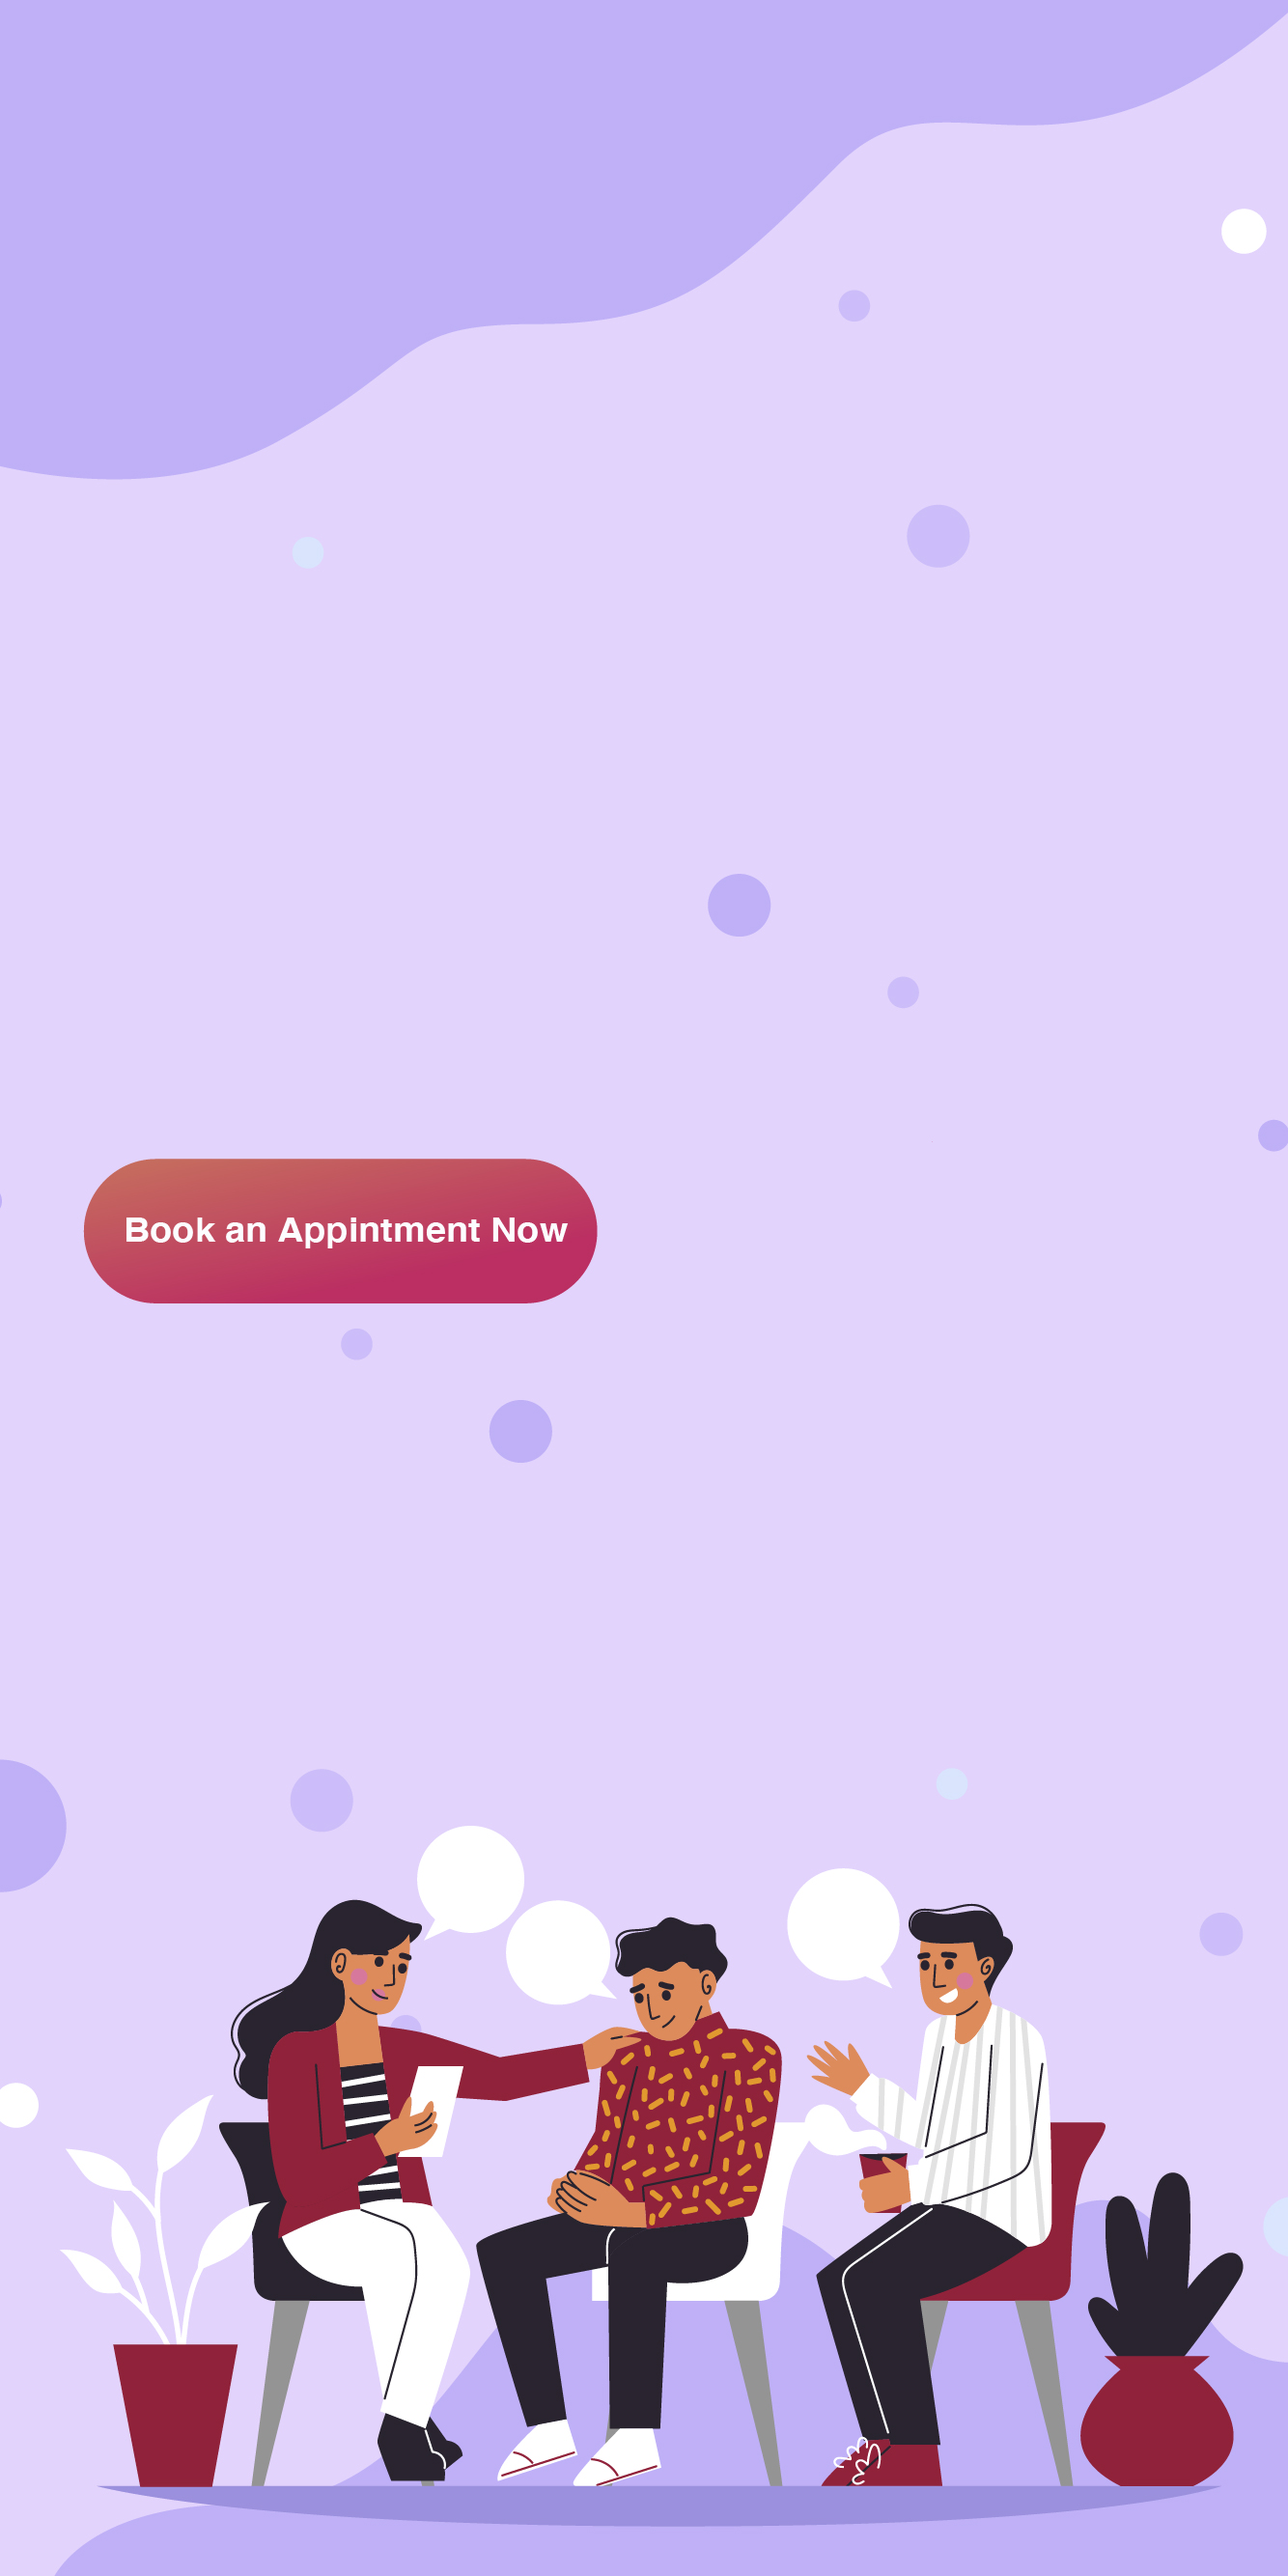
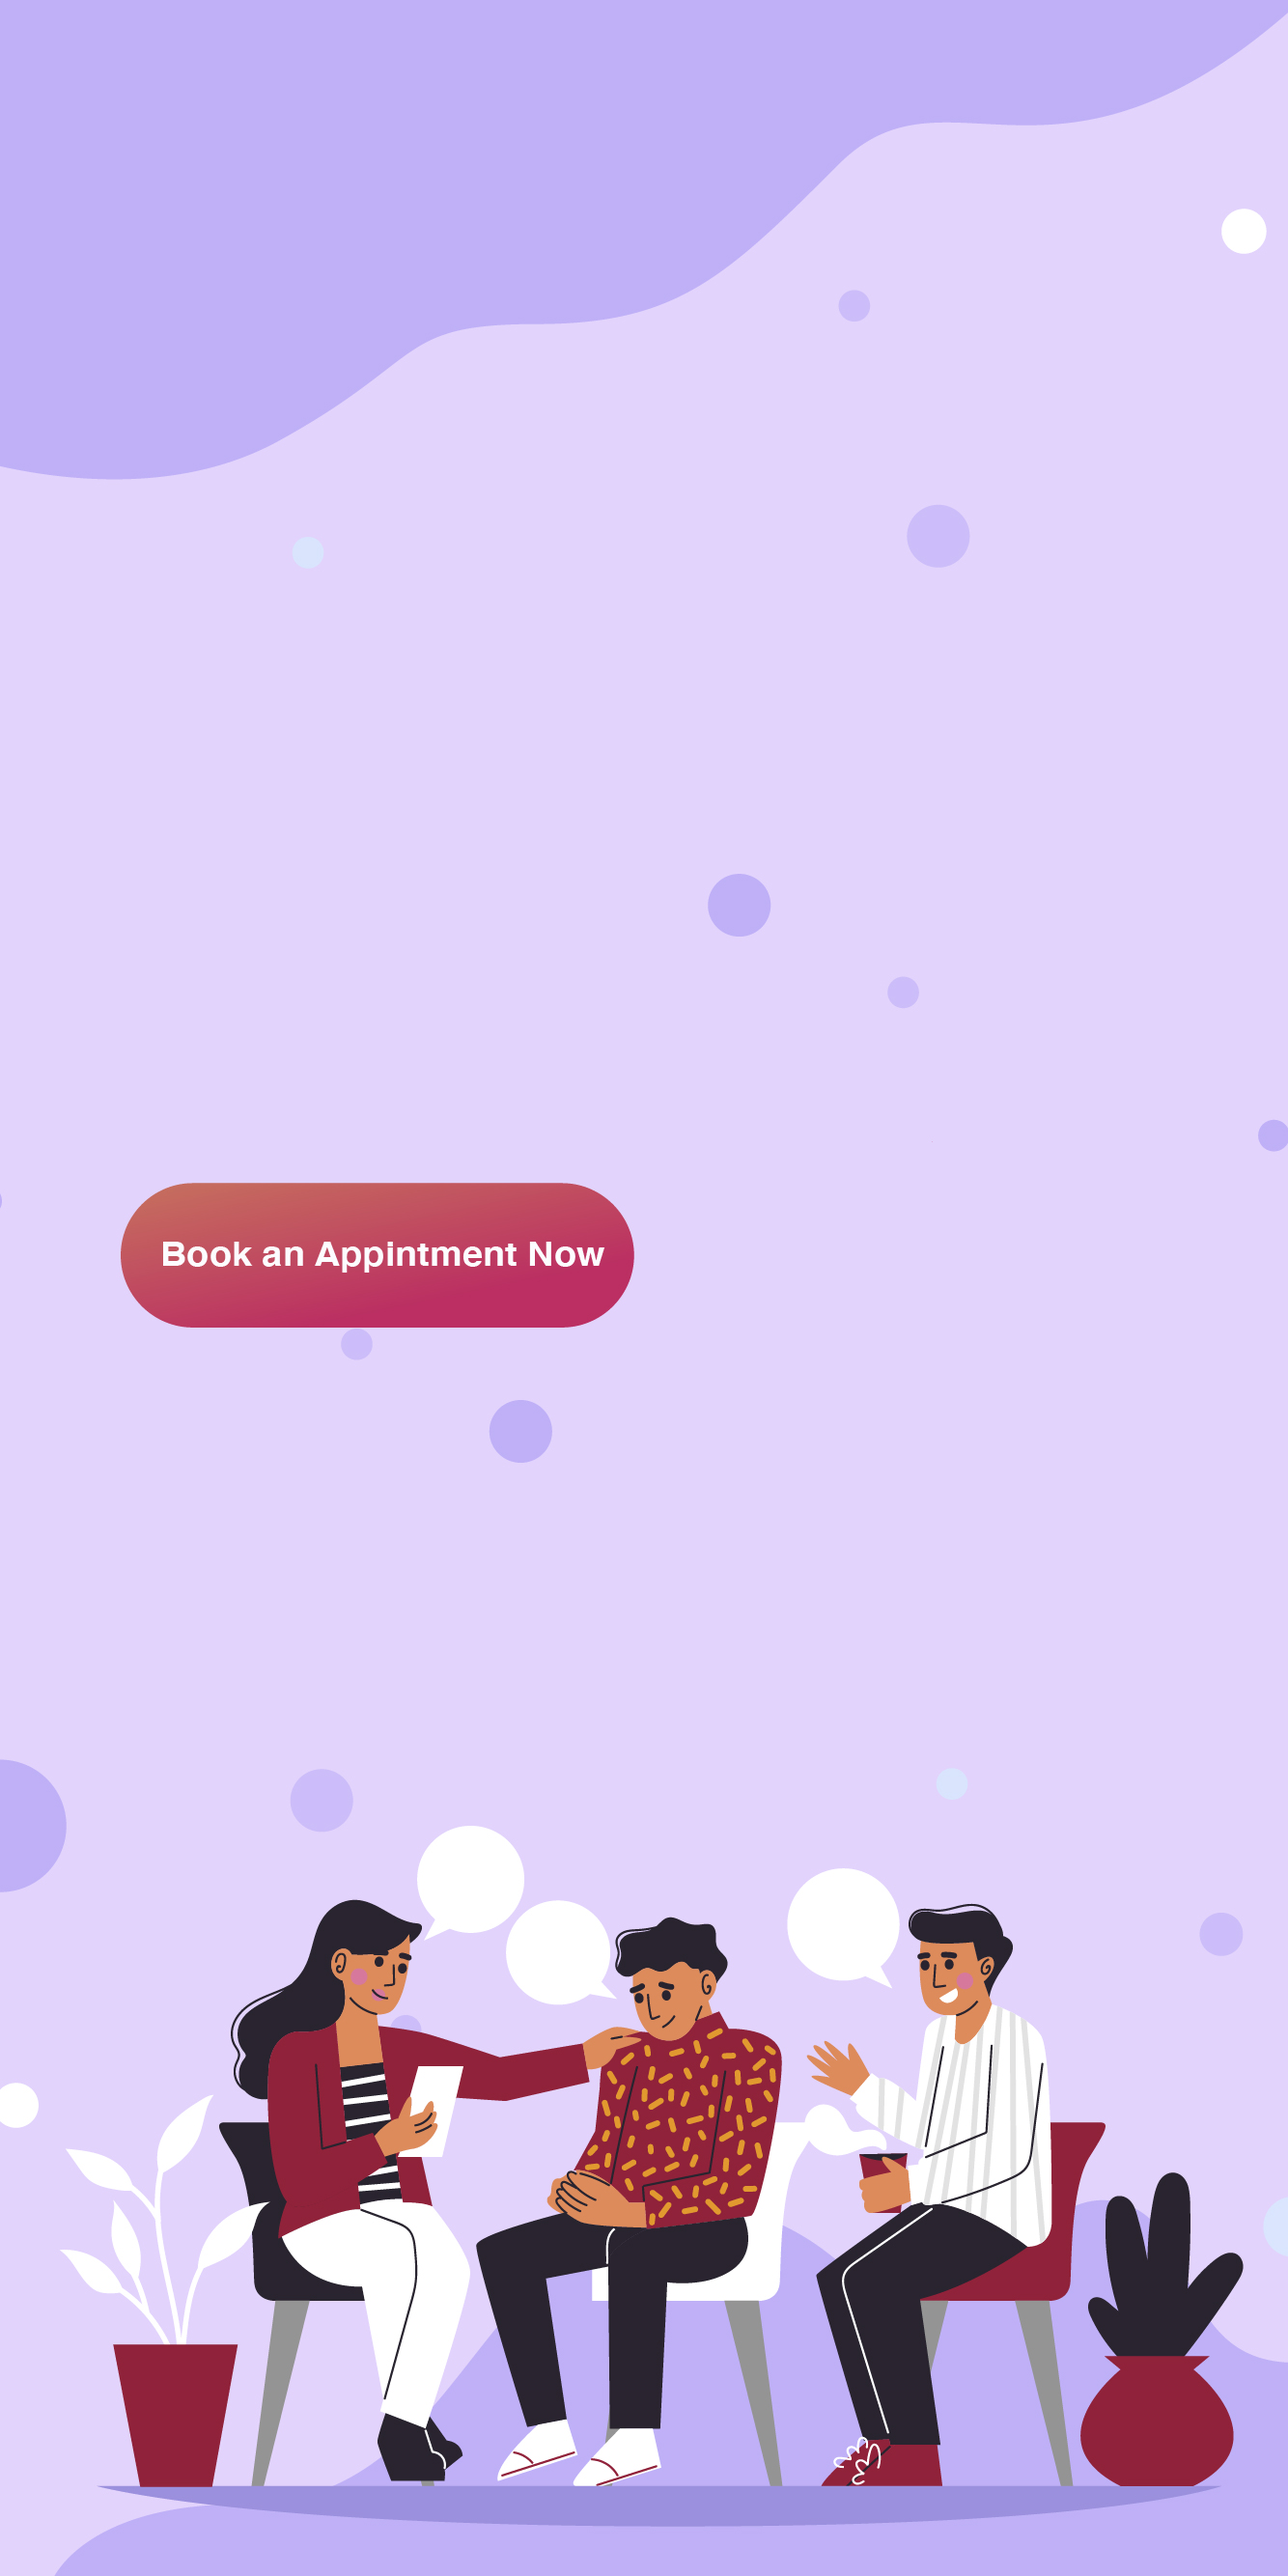
mobile images updated

Changed region(s): [[0.0615, 0.4355, 0.4918, 0.5289]]

diff --git a/main/static/scss/index.scss b/main/static/scss/index.scss
@@ -339,19 +339,19 @@
             }
 
             #textcontent1 {
-                top: 18.5%;
-                left: 8%;
+                top: 25%;
+                left: 10%;
             }
             #textcontent2 {
-                top: unset;
+                top: 15%;
+                left: 10%;
+                bottom: unset;
                 right: unset;
-                bottom: 16.5%;
-                left: 8%;
-                width: 90vw;
+                width: 80vw;
             }
             #textcontent3 {
-                top: 18.5%;
-                left: 8%;
+                top: 35%;
+                left: 10%;
             }
             .container img {
                 object-fit: cover;

diff --git a/main/templates/skeleton.html b/main/templates/skeleton.html
@@ -138,7 +138,7 @@
             </div>
 
             <div id="footerlinks" class="footersection">
-                <h4>Important Links</h4>
+                <h4>Quick Links</h4>
                 <a href="{% url 'index' %}">Home</a>
                 <a href="{% url 'about' %}">About</a>
                 <a href="{% url 'faqs' %}">FAQs</a>
